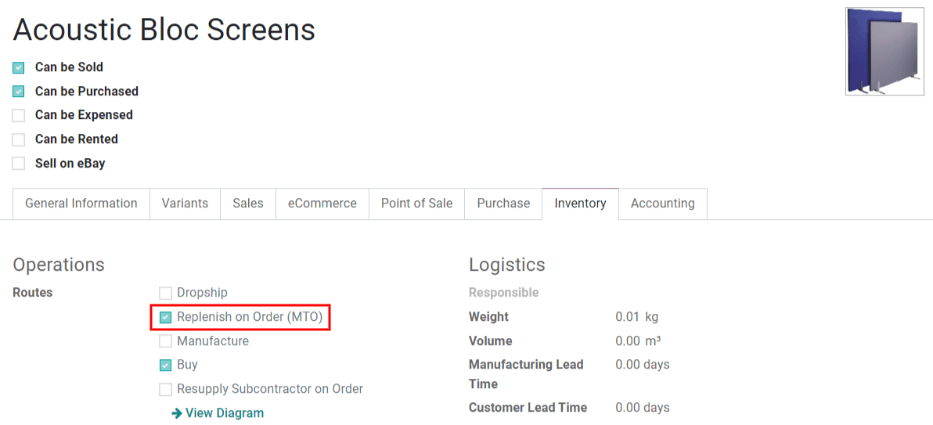
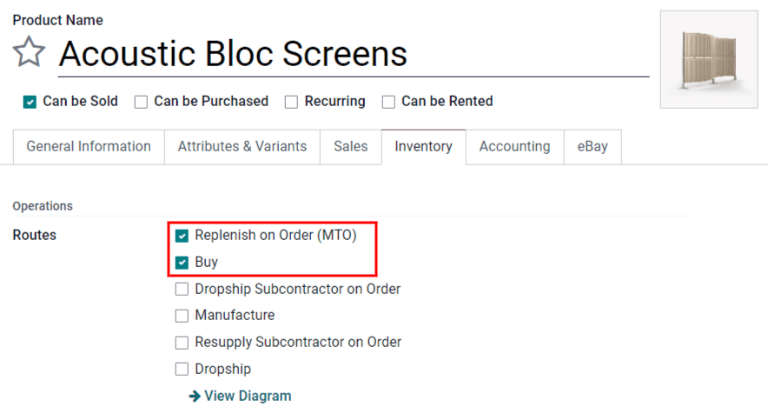
[IMP] Inventory: updated images and removed edit steps
closes odoo/documentation#4878

diff --git a/content/applications/inventory_and_mrp/inventory/management/products/strategies.rst b/content/applications/inventory_and_mrp/inventory/management/products/strategies.rst
@@ -128,8 +128,7 @@ click the checkbox next to a field to make it visible.
 
 By default, the quantity in the :guilabel:`To Order` field is the quantity required to reach the set
 :guilabel:`Max Quantity`. However, the :guilabel:`To Order` quantity can be adjusted by clicking on
-the field and, changing the value, and clicking :guilabel:`Save`. To replenish a product manually,
-click :guilabel:`Order Once`.
+the field and changing the value. To replenish a product manually, click :guilabel:`Order Once`.
 
 To automate a replenishment from the :guilabel:`Replenishment` page, click :guilabel:`Automate
 Orders` on the right-side of the line, represented by a :guilabel:`🔄 (circular arrow)` icon.
@@ -173,7 +172,7 @@ To activate the |MTO| route in Odoo:
    unarchiving the |MTO| route.
 
 To set a product's procurement route to |MTO|, go to :menuselection:`Inventory app --> Products -->
-Products`, click on the desired product to open its product form, and click :guilabel:`Edit`.
+Products`, and click on the desired product to open its product form.
 
 Then, click the :guilabel:`Inventory` tab, and in the :guilabel:`Routes` section of options, select
 :guilabel:`Replenish on Order (MTO)`.
